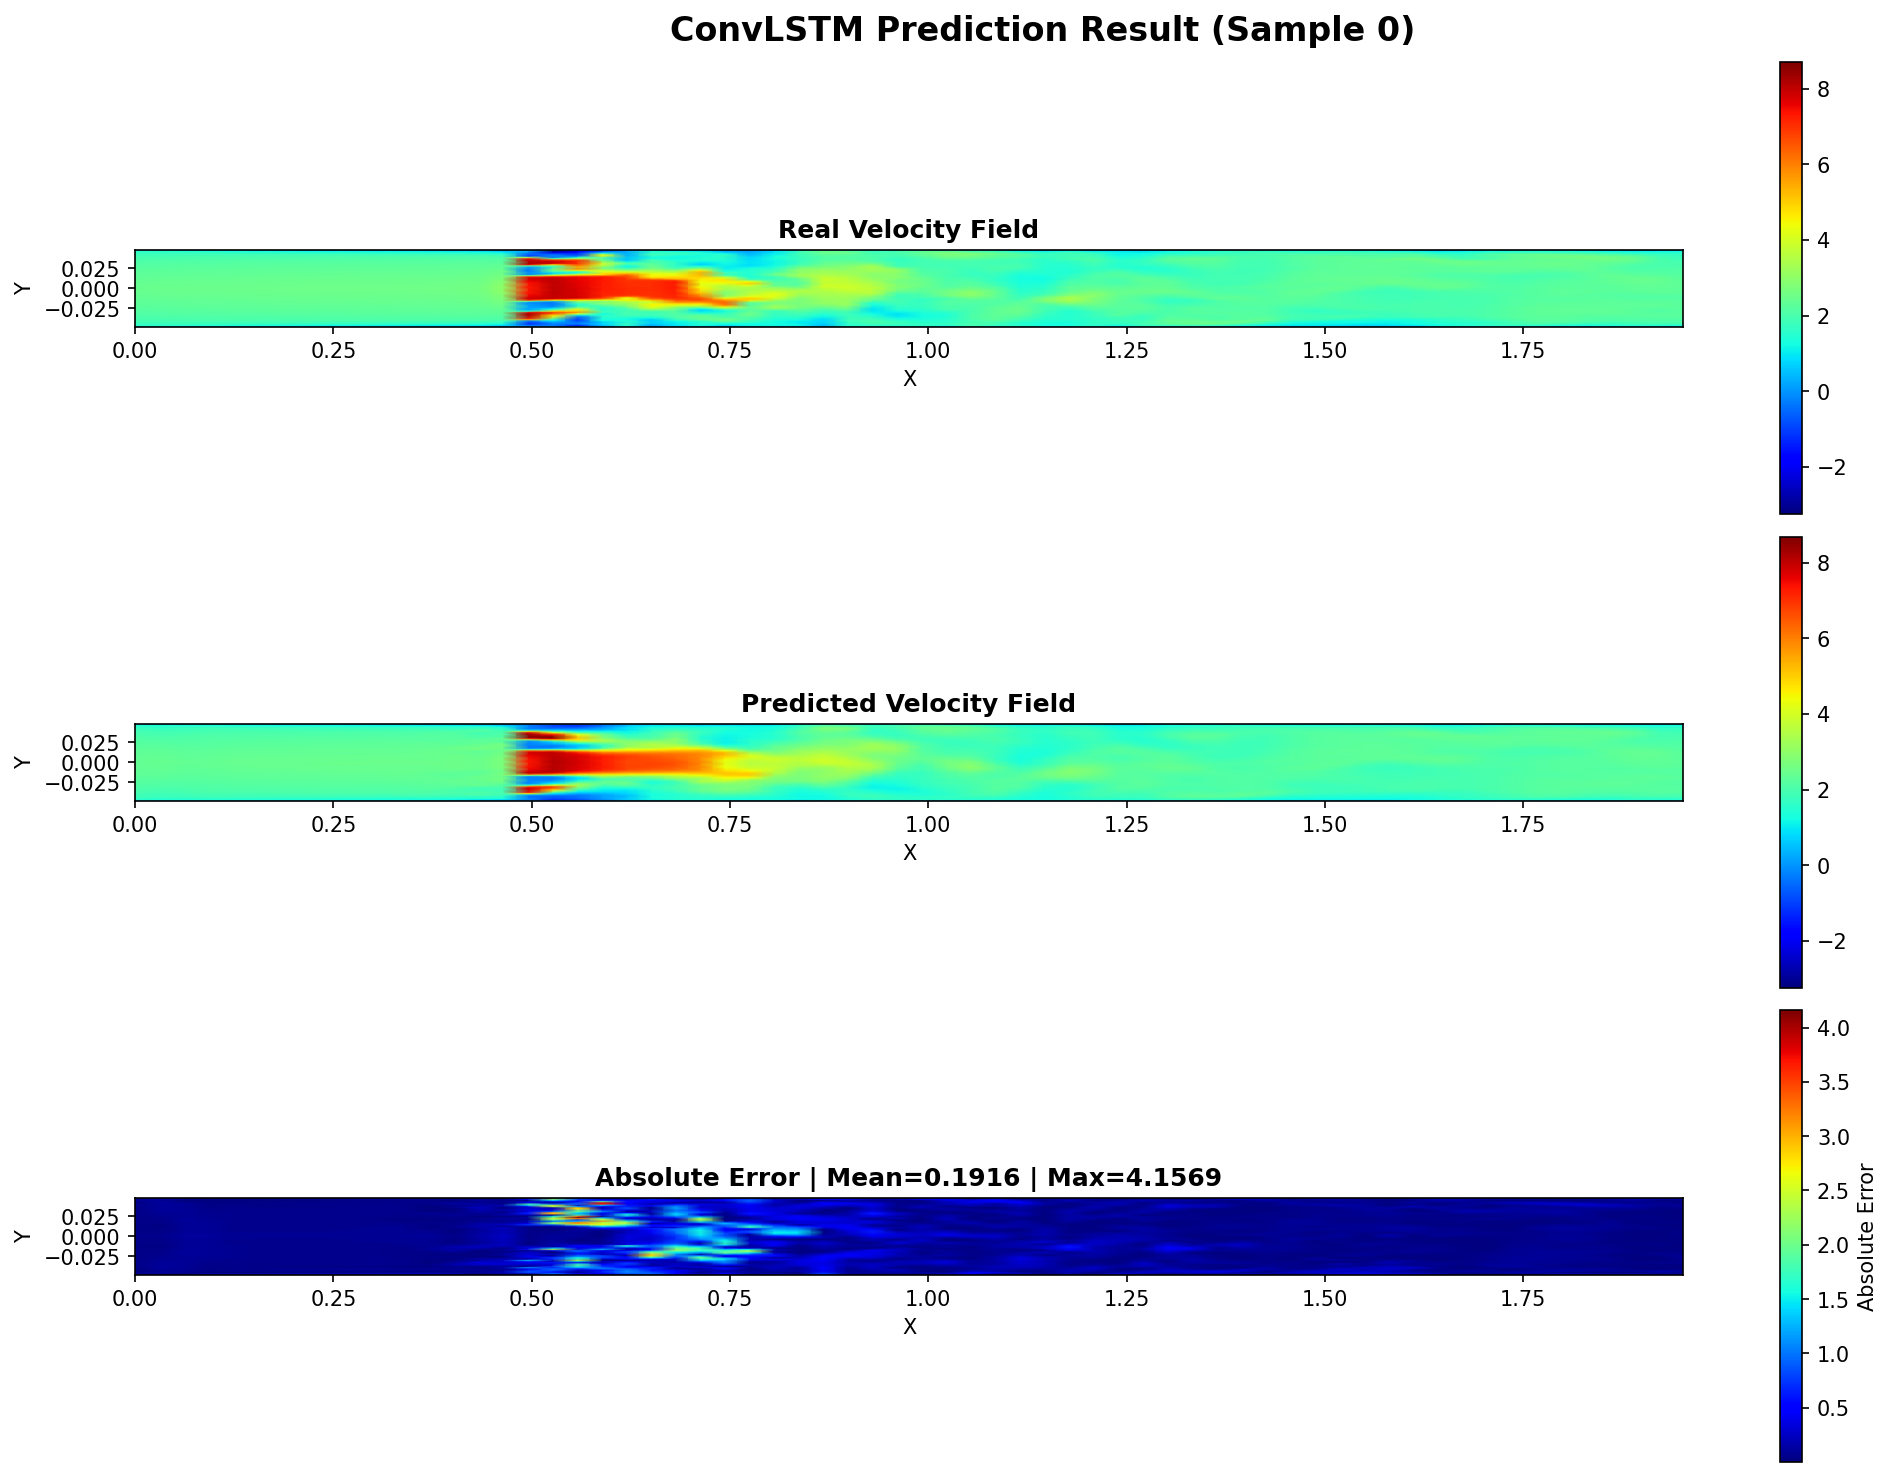
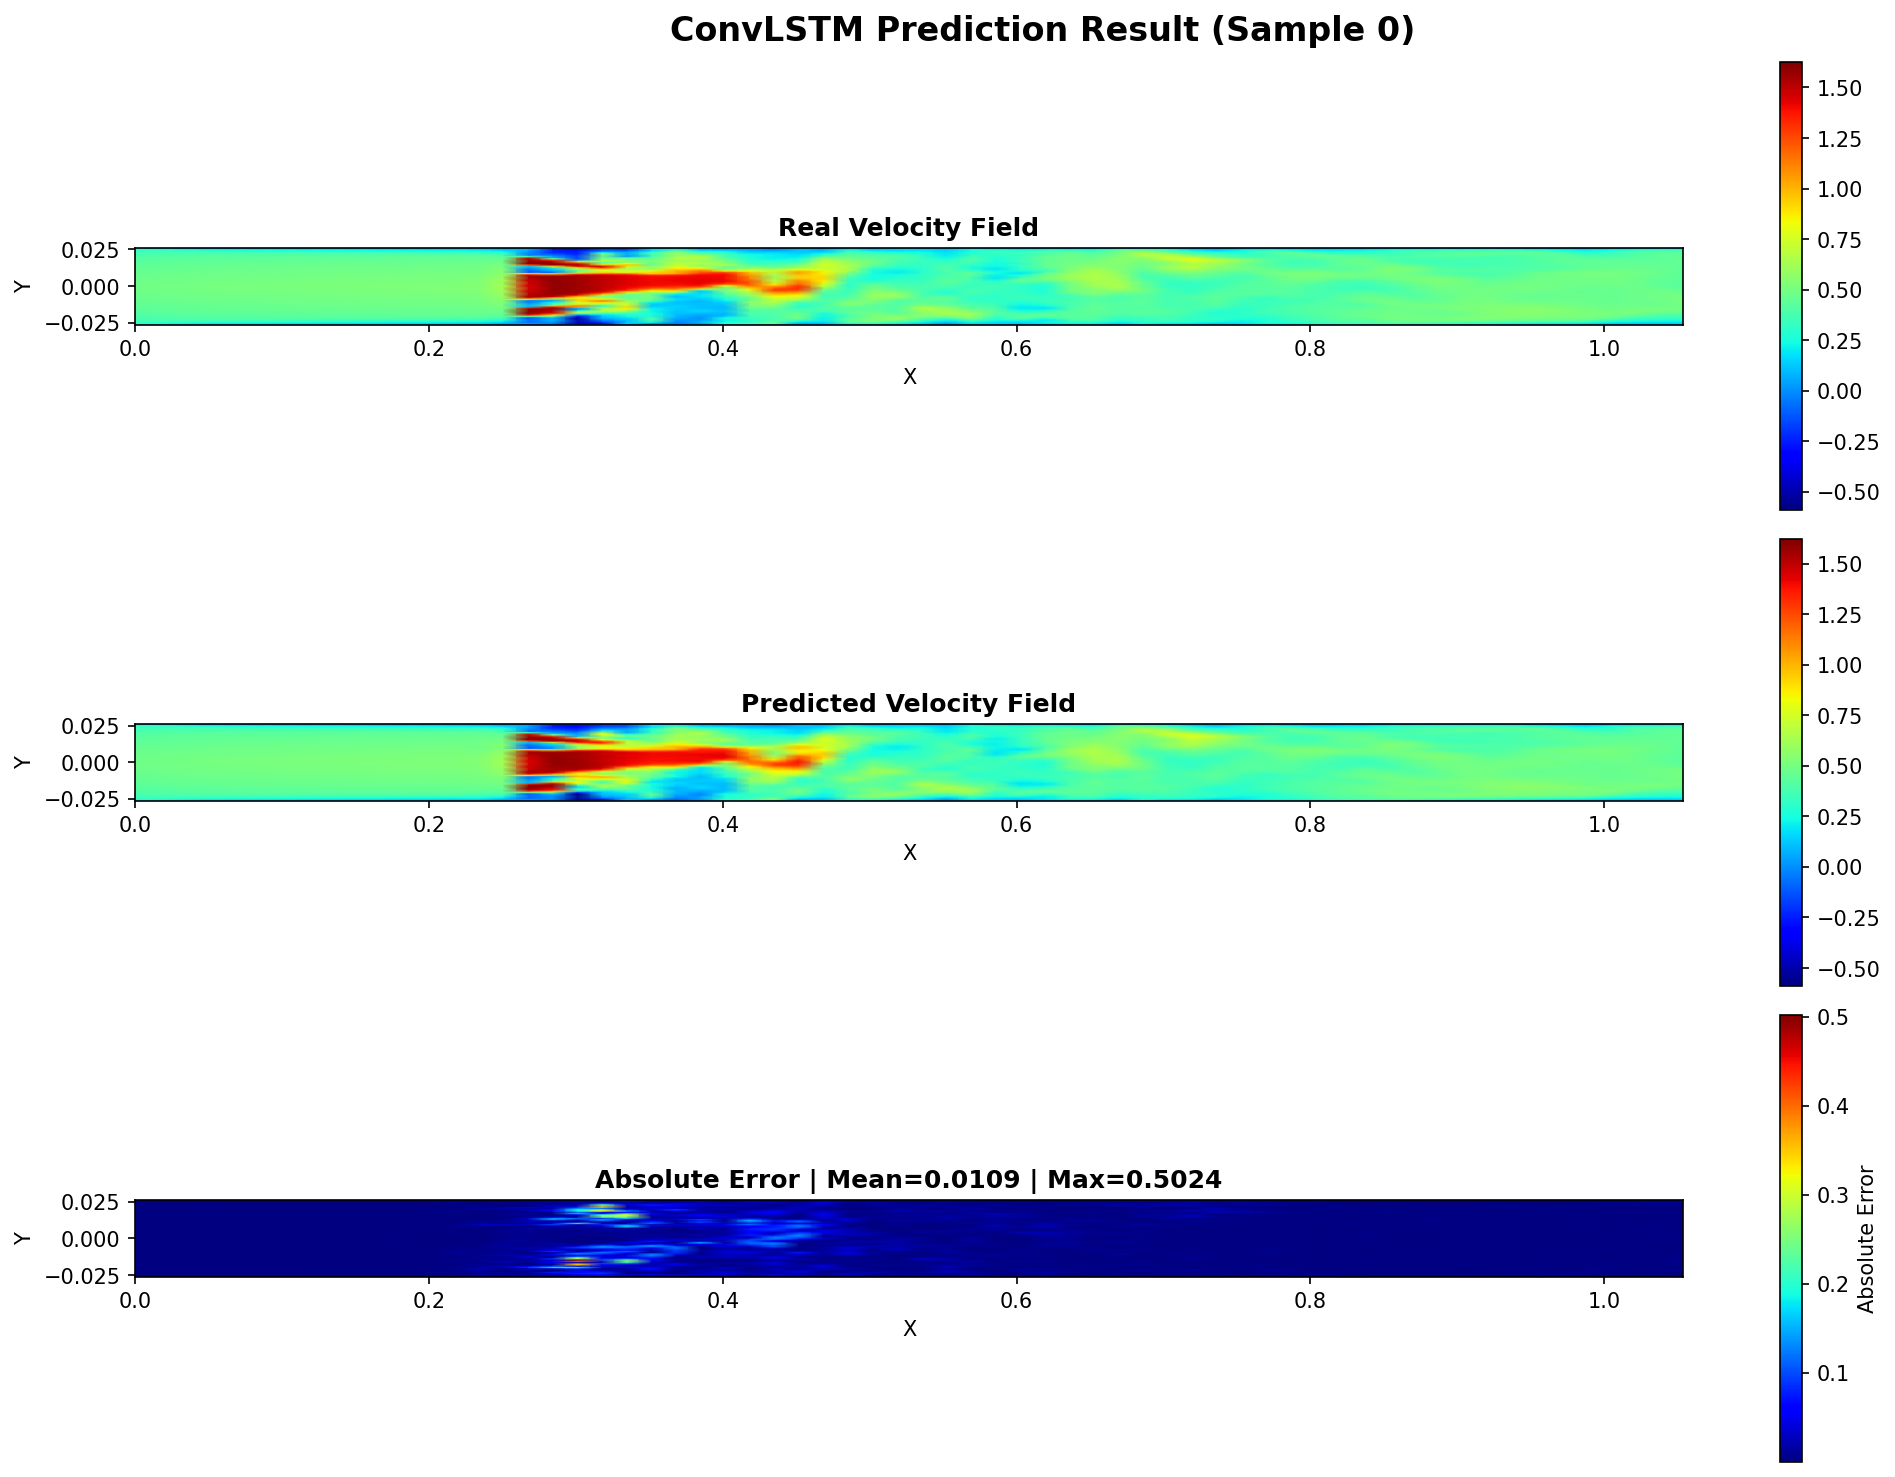
更新 .gitignore，添加新数据集目录；修改 config_convlstm.py 文件路径；增强 convlstm_prediction.py 中的误差计算，添加平均相对误差 (MRE)；更新训练结果图像。

diff --git a/config_convlstm.py b/config_convlstm.py
@@ -1,54 +1,36 @@
-# =====================================
-# 数据文件
-# =====================================
 
-FILE_PATHS = [
-    f'./2.asc/DN9718N12K071-2-tran-3-{i:05d}'
-    for i in range(7700, 8271, 10)
+
+FILE_PATHS = [#文件
+    f'./0-4 new-dataset/DN50N12K067B060-0-4-2-{i:05d}'
+    for i in range(3912, 4319, 2)
 ]
 
 
-# =====================================
-# ConvLSTM 参数
-# =====================================
 
-INPUT_STEPS = 4
+INPUT_STEPS = 4     #每次输入
 
-HIDDEN_DIMS = [64, 128]   # 双层 ConvLSTM
+HIDDEN_DIMS = [64, 128]   #隐藏层
 
-KERNEL_SIZE = 3
+KERNEL_SIZE = 3     
 
-
-# =====================================
-# 网格参数
-# =====================================
 
 GRID_SIZE = (64, 64)
 
 
-# =====================================
-# 数据集划分
-# =====================================
 
 TRAIN_RATIO = 0.8
 
 
-# =====================================
-# 训练参数
-# =====================================
 
-BATCH_SIZE = 8            # RTX 5060 Ti 16GB
+BATCH_SIZE = 8            
 
 EPOCHS = 300
 
-LR = 1e-3
+LR = 5e-4
 
 GRAD_CLIP = 1.0             # 梯度裁剪
 
 
-# =====================================
-# 损失权重
-# =====================================
 
 LAMBDA_BOUNDARY = 0.2      # 边界加权 MSE 系数
 

diff --git a/convlstm_prediction.py b/convlstm_prediction.py
@@ -426,9 +426,20 @@ class TriplePanelViewer:
         self.ax_error.set_ylabel("Y")
         err_frozen = (self.error_frames[idx] is None and ftype == 'AutoReg')
         err_str = "  [FROZEN — no ground truth]" if err_frozen else ""
-        mae_val = float(np.mean(error)) if error is not None else float('nan')
+        if error is not None and real is not None:
+            mae_val = float(np.mean(error))
+            # 平均相对误差 (MRE)，排除 real=0 的点
+            nonzero_mask = np.abs(real) >= 1e-4
+            if nonzero_mask.any():
+                rel_err = np.abs(error[nonzero_mask] / real[nonzero_mask])
+                mre_val = float(np.mean(rel_err)) * 100
+            else:
+                mre_val = float('nan')
+        else:
+            mae_val = float('nan')
+            mre_val = float('nan')
         self.ax_error.set_title(
-            f"3. |Prediction − Real|  (mean = {mae_val:.4f}){err_str}",
+            f"3. |Prediction − Real|  (MAE = {mae_val:.4f}, MRE = {mre_val:.2f}%){err_str}",
             fontsize=13, fontweight="bold", color="darkred",
         )
 